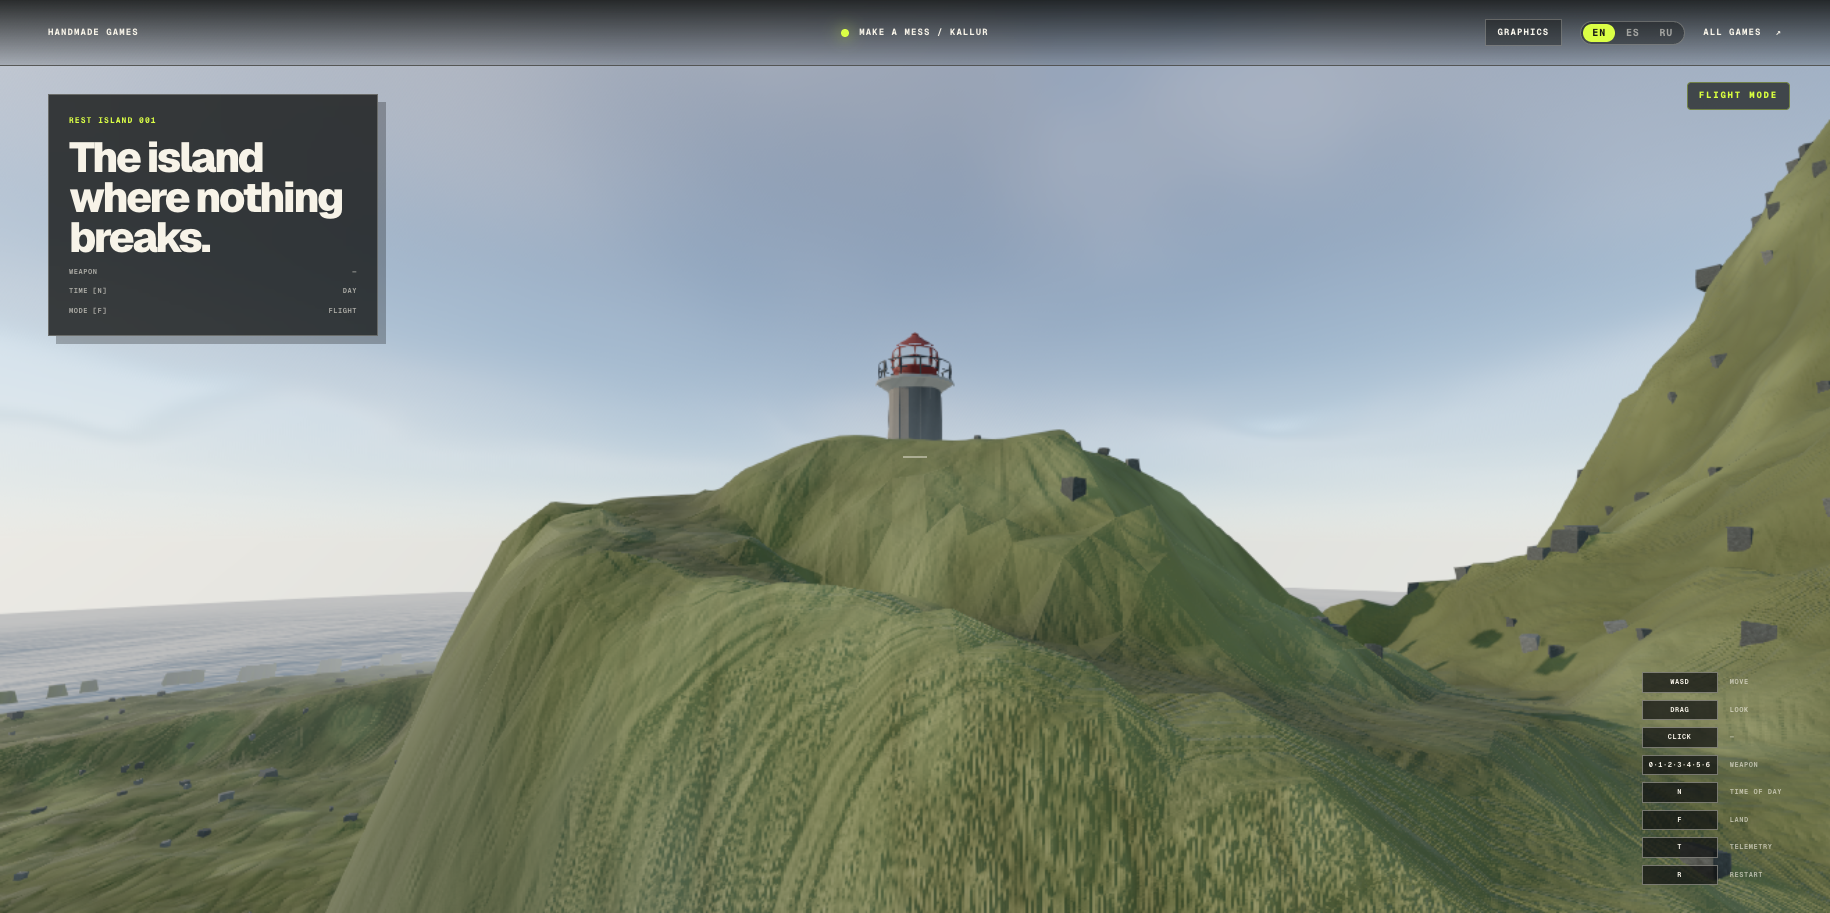
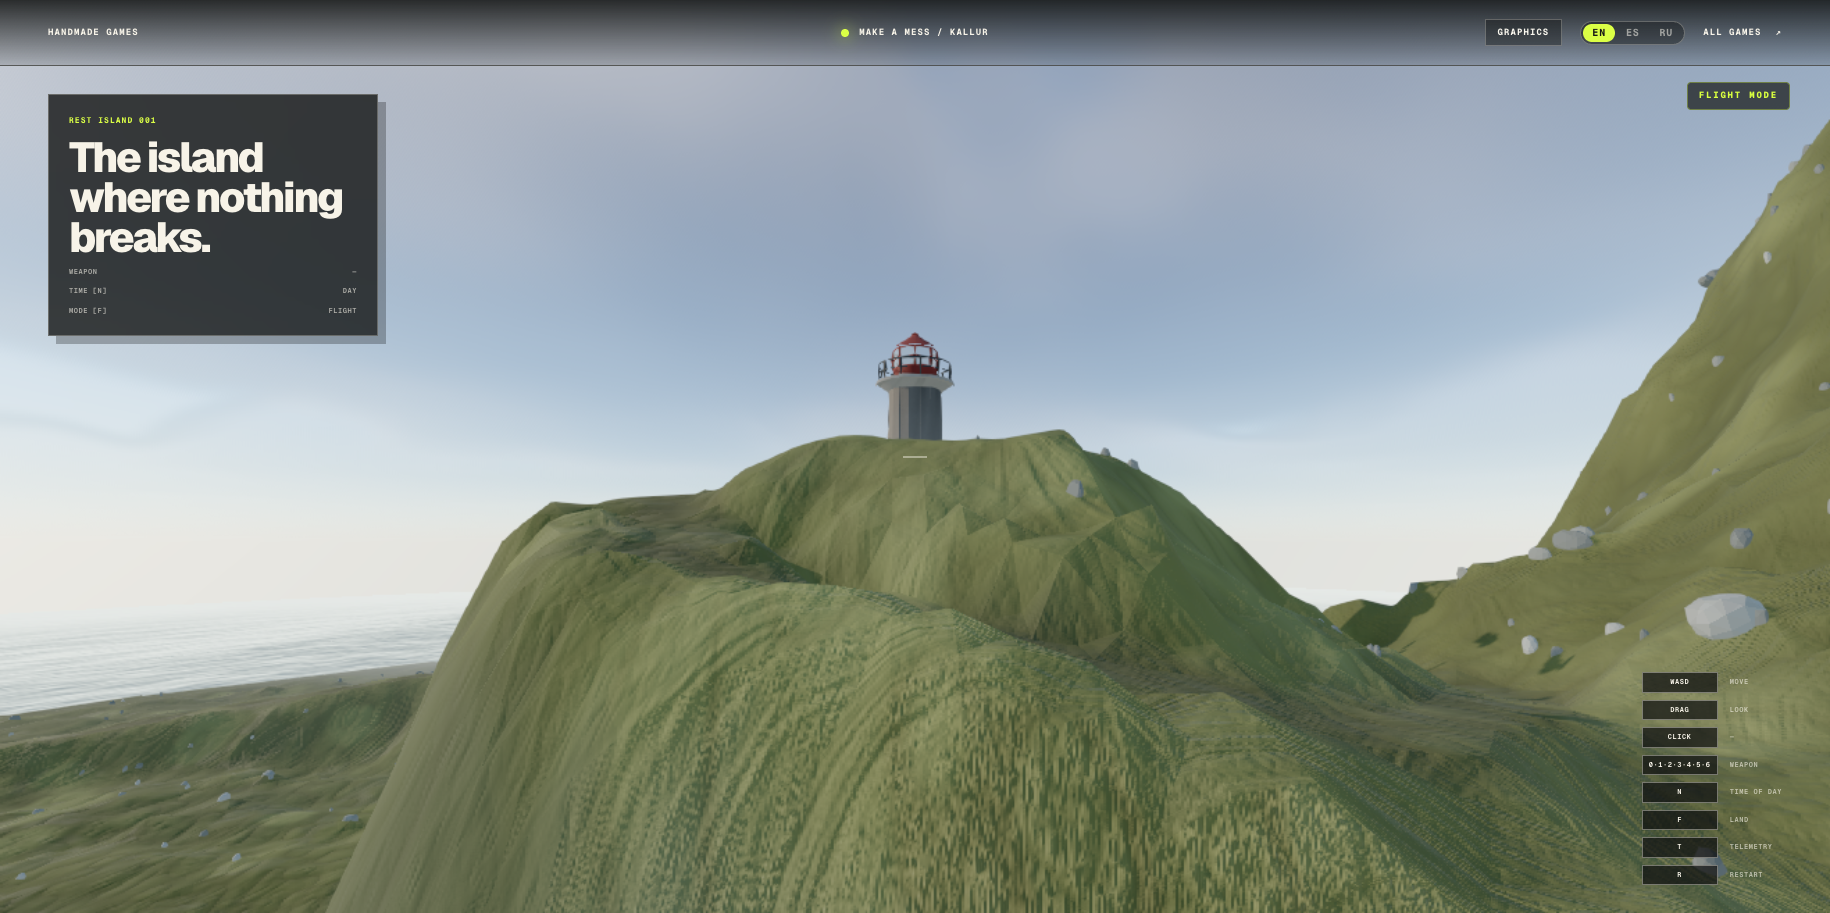
feat(kallur): the accepted boulder kit fills the island - six draws, no rebuilds
Integration per Igor's acceptance and his one condition: nothing is
rebuilt at launch. Archetype geometries are built once per process, the
1700 placements once at mount (plain arithmetic from the deterministic
stone field: same collar seats, tilts, yaws and strata tones the box
crowns used), and the render is SIX InstancedMesh - one draw per
archetype. The box crowns stay as invisible colliders and climbing
support, so physics and the structural graph are untouched. Lichen
crowns land as an albedo mask (world-up + hash) - the bible III bright
speckle, finally closed; light keeps its single owner.

diff --git a/games/make-a-mess/src/game/KallurBoulders.tsx b/games/make-a-mess/src/game/KallurBoulders.tsx
@@ -1,0 +1,138 @@
+import { useMemo } from "react";
+import {
+  BufferAttribute,
+  BufferGeometry,
+  Color,
+  InstancedMesh,
+  Matrix4,
+  MeshStandardMaterial,
+  Quaternion,
+  Euler,
+  Vector3,
+} from "three";
+import {
+  buildBoulderArchetype,
+  KALLUR_BOULDER_ARCHETYPES,
+} from "../content/objects/kallur/kallurBoulderKitObject.ts";
+import { kallurBoulderPlacements } from "../content/scenes/kallur/kallurBoulderPlacements.ts";
+
+/**
+ * The accepted boulder kit in the world: SIX InstancedMesh, one per
+ * archetype — ~1700 stones in six draw calls. Geometry is built once per
+ * process (module memo below), matrices once per mount; nothing is
+ * recomputed per frame or per launch beyond that (Igor's condition).
+ * The invisible box pieces keep colliders and support. The lichen crown
+ * is an ALBEDO mask (world-up + hash), not a lighting law — light stays
+ * with its single owner.
+ */
+
+let archetypeGeometryCache: Map<string, BufferGeometry> | null = null;
+
+function archetypeGeometries(): Map<string, BufferGeometry> {
+  if (archetypeGeometryCache) return archetypeGeometryCache;
+  const cache = new Map<string, BufferGeometry>();
+  for (const archetype of KALLUR_BOULDER_ARCHETYPES) {
+    const source = buildBoulderArchetype(archetype);
+    const geometry = new BufferGeometry();
+    const positions = new Float32Array(source.vertices.length * 3);
+    source.vertices.forEach(([x, y, z], index) => {
+      positions[index * 3] = x;
+      positions[index * 3 + 1] = y;
+      positions[index * 3 + 2] = z;
+    });
+    geometry.setAttribute("position", new BufferAttribute(positions, 3));
+    geometry.setIndex(
+      new BufferAttribute(
+        new Uint16Array(source.triangles.flat()),
+        1,
+      ),
+    );
+    geometry.computeVertexNormals();
+    geometry.computeBoundingSphere();
+    cache.set(archetype.id, geometry);
+  }
+  archetypeGeometryCache = cache;
+  return cache;
+}
+
+const boulderMaterial = new MeshStandardMaterial({
+  color: "#ffffff",
+  roughness: 0.94,
+  metalness: 0,
+});
+boulderMaterial.onBeforeCompile = (shader) => {
+  shader.vertexShader = shader.vertexShader
+    .replace(
+      "#include <common>",
+      "#include <common>\nvarying vec3 vBoulderWorldNormal;\nvarying vec3 vBoulderWorld;",
+    )
+    .replace(
+      "#include <worldpos_vertex>",
+      `#include <worldpos_vertex>
+vBoulderWorld = (modelMatrix * instanceMatrix * vec4(position, 1.0)).xyz;
+vBoulderWorldNormal = normalize(mat3(modelMatrix) * mat3(instanceMatrix) * normal);`,
+    );
+  shader.fragmentShader = shader.fragmentShader
+    .replace(
+      "#include <common>",
+      "#include <common>\nvarying vec3 vBoulderWorldNormal;\nvarying vec3 vBoulderWorld;",
+    )
+    .replace(
+      "#include <map_fragment>",
+      `#include <map_fragment>
+// Lichen crowns (bible III): pale speckle on upward faces — the bright
+// dots that make the reference hill "вкусно". Albedo only.
+float lichenHash = fract(sin(dot(floor(vBoulderWorld.xz * 3.1),
+  vec2(127.1, 311.7))) * 43758.5453);
+float lichen = smoothstep(0.55, 0.9, vBoulderWorldNormal.y)
+  * smoothstep(0.35, 0.75, lichenHash);
+diffuseColor.rgb = mix(diffuseColor.rgb, vec3(0.76, 0.77, 0.72), lichen * 0.55);`,
+    );
+};
+
+export function KallurBoulders() {
+  const meshes = useMemo(() => {
+    const geometries = archetypeGeometries();
+    const placements = kallurBoulderPlacements();
+    const byArchetype = new Map<string, typeof placements[number][]>();
+    for (const placement of placements) {
+      const bucket = byArchetype.get(placement.archetype) ?? [];
+      bucket.push(placement);
+      byArchetype.set(placement.archetype, bucket);
+    }
+    const matrix = new Matrix4();
+    const quaternion = new Quaternion();
+    const scale = new Vector3();
+    const position = new Vector3();
+    const colour = new Color();
+    const built: InstancedMesh[] = [];
+    for (const [archetype, bucket] of byArchetype) {
+      const geometry = geometries.get(archetype);
+      if (!geometry) continue;
+      const mesh = new InstancedMesh(geometry, boulderMaterial, bucket.length);
+      bucket.forEach((placement, index) => {
+        position.set(...placement.position);
+        quaternion.setFromEuler(new Euler(...placement.rotation));
+        scale.set(...placement.scale);
+        matrix.compose(position, quaternion, scale);
+        mesh.setMatrixAt(index, matrix);
+        mesh.setColorAt(index, colour.set(placement.colour));
+      });
+      mesh.instanceMatrix.needsUpdate = true;
+      if (mesh.instanceColor) mesh.instanceColor.needsUpdate = true;
+      mesh.castShadow = true;
+      mesh.receiveShadow = true;
+      mesh.computeBoundingSphere();
+      built.push(mesh);
+    }
+    return built;
+  }, []);
+
+  return (
+    <group>
+      {meshes.map((mesh, index) => (
+        <primitive key={index} object={mesh} />
+      ))}
+    </group>
+  );
+}

diff --git a/games/make-a-mess/src/content/scenes/kallur/kallurBoulderPlacements.ts b/games/make-a-mess/src/content/scenes/kallur/kallurBoulderPlacements.ts
@@ -1,0 +1,88 @@
+import {
+  buildBoulderArchetype,
+  KALLUR_BOULDER_ARCHETYPES,
+} from "../../objects/kallur/kallurBoulderKitObject.ts";
+import {
+  kallurGroundTopAt,
+  kallurStones,
+} from "./kallurLandscapeDocument.ts";
+import { kallurVisibleStones } from "./kallurStoneField.ts";
+
+/**
+ * One placement law for the boulder ARCHETYPES (accepted kit a02): the
+ * same deterministic stone field that used to seat the box crowns now
+ * seats archetype instances. The scene keeps the invisible box pieces as
+ * colliders and support ("залезть и посидеть" unchanged); the renderer
+ * draws six InstancedMesh — matrices computed ONCE here, never per frame
+ * and never per launch beyond this arithmetic (1700 rows of trigonometry).
+ */
+
+export interface KallurBoulderPlacement {
+  readonly id: string;
+  readonly archetype: string;
+  readonly position: readonly [number, number, number];
+  readonly rotation: readonly [number, number, number];
+  readonly scale: readonly [number, number, number];
+  readonly colour: string;
+}
+
+/** Nominal bbox height of each archetype at unit scale, measured once. */
+const archetypeHeights: ReadonlyMap<string, number> = new Map(
+  KALLUR_BOULDER_ARCHETYPES.map((archetype) => {
+    const geometry = buildBoulderArchetype(archetype);
+    let top = 0;
+    for (const [, y] of geometry.vertices) top = Math.max(top, y);
+    return [archetype.id, top];
+  }),
+);
+
+/** Deterministic archetype pick from the stone's own numbers. */
+export function kallurBoulderArchetypeFor(stone: {
+  readonly size: number;
+  readonly tone: number;
+}): string {
+  if (stone.size < 0.45) return "loaf";
+  const pick = (stone.tone * 13.7) % 1;
+  if (pick < 0.34) return "rounded";
+  if (pick < 0.55) return "slab";
+  if (pick < 0.7) return "twin";
+  if (pick < 0.85) return stone.size >= 1.4 ? "split" : "column";
+  return "split";
+}
+
+let cached: readonly KallurBoulderPlacement[] | null = null;
+
+export function kallurBoulderPlacements(): readonly KallurBoulderPlacement[] {
+  if (cached) return cached;
+  const placements: KallurBoulderPlacement[] = [];
+  for (const stone of kallurVisibleStones(kallurStones)) {
+    const collarTop = kallurGroundTopAt(stone.x, stone.z);
+    const crownHeight = stone.size * (1 - stone.embed) * 0.9 + 0.15;
+    const colour = stone.tone > 0.72
+      ? "#b9bdb4"
+      : stone.tone > 0.35
+        ? "#8f958d"
+        : "#79807b";
+    const archetype = kallurBoulderArchetypeFor(stone);
+    const nominalHeight = archetypeHeights.get(archetype) ?? 1;
+    // The instance spans the same visual budget the box crown owned: its
+    // bottom sits 0.35 sunk into the collar and its top reaches the crown
+    // height, whatever the archetype's own proportions are.
+    const scaleY = (crownHeight + 0.35) / nominalHeight;
+    const scaleXZ = stone.size * 0.98;
+    placements.push({
+      id: stone.id,
+      archetype,
+      position: [stone.x, collarTop - 0.35, stone.z],
+      rotation: [
+        (stone.tone - 0.5) * 0.24,
+        stone.yaw,
+        (((stone.tone * 7) % 1) - 0.5) * 0.24,
+      ],
+      scale: [scaleXZ, scaleY, scaleXZ * 0.82],
+      colour,
+    });
+  }
+  cached = placements;
+  return cached;
+}

diff --git a/games/make-a-mess/src/game/MakeAMessGame.tsx b/games/make-a-mess/src/game/MakeAMessGame.tsx
@@ -241,6 +241,7 @@ import { environmentState } from "./environmentState";
 import { SceneDressing } from "./SceneDressing";
 import { WorldEdge } from "./WorldEdge";
 import { KallurSea } from "./KallurSea";
+import { KallurBoulders } from "./KallurBoulders";
 import { HingedDoorSystem, type HingedEntryApproach } from "./HingedDoorSystem";
 import {
   entryInteractionActions,
@@ -10594,6 +10595,7 @@ function OpenWorldScene({
         />
       ) : null}
       {scene.id === "kallur" ? <KallurSea /> : null}
+      {scene.id === "kallur" ? <KallurBoulders /> : null}
       {scene.id === "viking-village" && scene.worldRadius ? (
         <>
           <GrassField

diff --git a/games/make-a-mess/src/content/scenes/kallur/kallurDocument.ts b/games/make-a-mess/src/content/scenes/kallur/kallurDocument.ts
@@ -180,6 +180,10 @@ for (const stone of kallurVisibleStones(kallurStones)) {
       rotation: [tiltX, stone.yaw, tiltZ],
       foundation: true,
       maximumVerticalGap: 1,
+      // The accepted archetype kit renders the boulders as six
+      // InstancedMesh (KallurBoulders); the box stays as the collider
+      // and climbing support only.
+      intactVisible: false,
     },
   );
   if (stone.size >= 1.4) {
@@ -200,6 +204,7 @@ for (const stone of kallurVisibleStones(kallurStones)) {
         rotation: [tiltZ, stone.yaw + 0.7, tiltX],
         foundation: true,
         maximumVerticalGap: 1,
+        intactVisible: false,
       },
     );
   }
